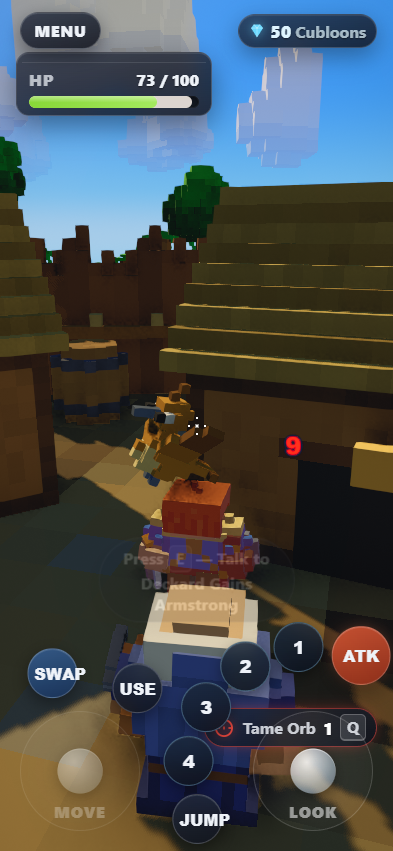
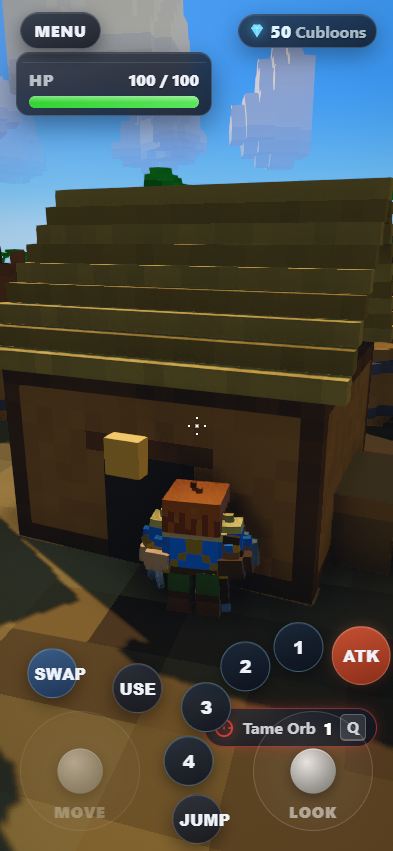
Put the orb's eye on the surface, and hand the dive probe its Galebird
Two more cells of dead paint, both the same mistake the inner shell was: a voxel
one in from the surface has six neighbours and is culled, so the "eye" at
`r - 1` had never been drawn. It sits on the +Z pole now, which is also the
direction of travel — and the seam is the equator, so "front of the seam" was
the wrong description of it as well.

`grant all` fills the two empty party slots in ROSTER ORDER, which puts an
Aquaxol in support; test-dive names a Galebird and wants it out there. Stated
explicitly rather than left to depend on the order fifteen species are declared
in. The shared suite already restores the pair through test-inventory's cleanup.

diff --git a/src/combat/tame-orb.ts b/src/combat/tame-orb.ts
@@ -105,10 +105,10 @@ export function buildTameOrb(color: number): THREE.Mesh {
   // under it, and EMISSIVE so the orb reads at night and inside the capture
   // flash — the one moment the player is looking straight at it.
   //
-  // ONE VOXEL WIDE and dim. It was three wide and at 1.6 intensity, which with
-  // bloom on top made a white band as thick as the ball was deep — the capture
-  // in shots/lab-orbs.png is what said so. A seam is a line, and the thing it
-  // has to be readable AGAINST is the tier's own colour.
+  // ABOUT ONE VOXEL WIDE and dim. It was three wide at 1.6 intensity, which
+  // with bloom on top made a white band as deep as the ball — the capture in
+  // shots/lab-orbs.png is what said so. A seam is a line, and the thing it has
+  // to stay readable AGAINST is the tier's own colour.
   for (let x = -r; x <= r; x++) {
     for (let y = -r; y <= r; y++) {
       const d = Math.hypot(x, y);
@@ -122,12 +122,14 @@ export function buildTameOrb(color: number): THREE.Mesh {
       }
     }
   }
-  // The eye: a lit dot at the front of the seam, where the +Z build direction
-  // points. It is the one asymmetry that says which way the orb is travelling.
-  v.setEmissive(0, 0, r - 1, CORE, 1.6);
-  v.setEmissive(1, 0, r - 1, CORE, 1.6);
-  v.setEmissive(0, 1, r - 1, CORE, 1.6);
-  v.setEmissive(1, 1, r - 1, CORE, 1.6);
+  // The eye: a lit dot at the +Z POLE, which is the direction of travel.
+  //
+  // AT `r` AND NOT `r - 1`, which is the same trap the inner shell fell into: a
+  // cell one in from the surface has six neighbours and is culled, so an eye
+  // painted there is an eye nobody ever sees. The pole cell is the outermost one
+  // the sphere actually contains — `(0, 0, r)` satisfies the ellipsoid exactly,
+  // and `(1, 0, r)` does not, which is why this is one voxel and not four.
+  v.setEmissive(0, 0, r, CORE, 1.6);
   // `center: true` — the pool positions and rotates about the orb's middle,
   // which for a ball is also its centre of mass and the point it wobbles about
   // once it is on the ground.
